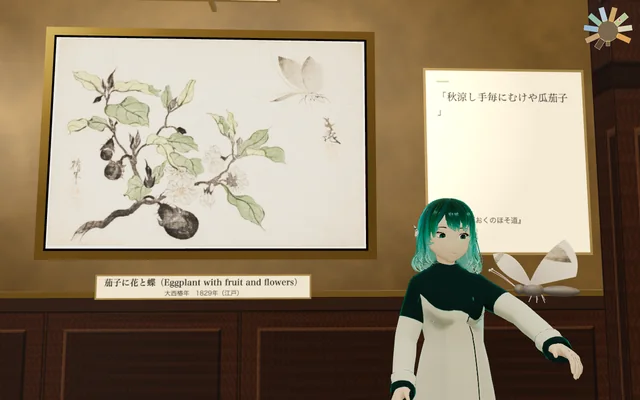
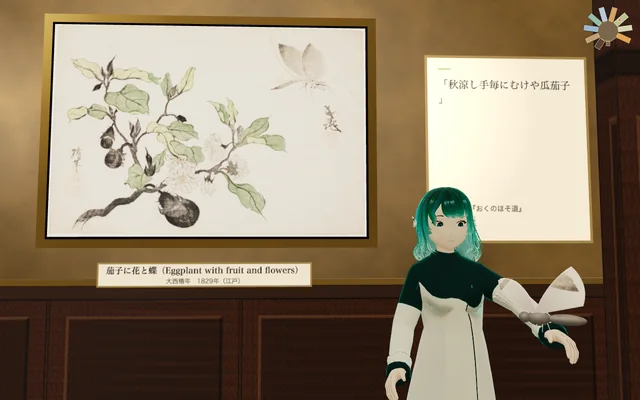
森羅博物館の写真：碧の手にとまる蝶

diff --git a/index.html b/index.html
@@ -1144,7 +1144,7 @@ html[lang="en"] .qr>p.qr-core{font-family:var(--latin);font-style:italic;letter-
            2026-10-07 本人「森羅百景を HP から削除して、代わりに森羅博物館を追加」（森羅百景のアプリ自体は公開のまま・HP からのリンクだけ外した）。
            碧の唄の MV は未公開。公開したら、この順の位置に入れる。 -->
       <li><a href="https://mitsulab-soil.github.io/aoi-walk-hikawa/" target="_blank" rel="noopener"><img src="img/apps/vid/walk_poster.webp" width="640" height="400" loading="lazy" decoding="async" alt="氷川道中：参道を先に歩く碧" data-i18n-alt="Hikawa Dochu: Aoi walking ahead on the approach"><span class="sn" data-i18n-en="Hikawa Dochu">氷川道中</span><span class="sd" data-i18n-en="Walk the Hikawa approach in Ōmiya with Aoi&#39;s voice. Choose a layer to listen to — living things, trees, soil and water, layers of time — and Aoi speaks at keyaki and stones; in places the scene slips back to the old cedar avenue. At home, walk it in 3D.">大宮の氷川参道を、碧の声と歩きます。生きもの・樹木・土と水・時のかさなりなど、聞きたい層を選ぶと、欅や石の前で碧が話し、景色が杉並木のころへさかのぼる所も。家では 3D の参道を歩けます。</span><span class="slg" data-i18n-en="Japanese only">日本語のみ</span><span class="arr">↗</span></a></li>
-      <li><a href="https://mitsulab-soil.github.io/museum/" target="_blank" rel="noopener"><img src="img/apps/vid/museum_poster.webp" width="640" height="400" loading="lazy" decoding="async" alt="森羅博物館：やさいの部屋の「茄子に花と蝶」の前で、こちらを向いて話す碧と、絵から抜け出て碧の手もとへ来た蝶" data-i18n-alt="Shinra Museum: in the vegetable room, Aoi faces us in front of “Eggplant with fruit and flowers”, as a butterfly that has left the picture comes to her hand"><span class="sn" data-i18n-en="Shinra Museum">森羅博物館</span><span class="sd" data-i18n-en="Walk a 3D museum room to room with Aoi. Light and sound change with each room — soil, rain, wind, snow, the Moon and more — and Aoi tells you about the pictures in her own voice. Creatures slip out of their frames, and books open in spreads. The hall alone takes about 2 minutes; one room, about 10.">3D の館を、碧と部屋から部屋へ歩きます。土・雨・風・雪・月などの部屋ごとに光と音が変わり、絵の前では碧が声で語ります。額から抜け出して動く生きものや、見開きで読める本もあります。広間だけなら 2 分、一部屋なら 10 分ほど。</span><span class="slg" data-i18n-en="Japanese only">日本語のみ</span><span class="arr">↗</span></a></li>
+      <li><a href="https://mitsulab-soil.github.io/museum/" target="_blank" rel="noopener"><img src="img/apps/vid/museum_poster.webp" width="640" height="400" loading="lazy" decoding="async" alt="森羅博物館：やさいの部屋の「茄子に花と蝶」の前で、こちらを向いて話す碧と、絵から抜け出て碧の手にとまった蝶" data-i18n-alt="Shinra Museum: in the vegetable room, Aoi faces us in front of “Eggplant with fruit and flowers”, with a butterfly that has left the picture perched on her hand"><span class="sn" data-i18n-en="Shinra Museum">森羅博物館</span><span class="sd" data-i18n-en="Walk a 3D museum room to room with Aoi. Light and sound change with each room — soil, rain, wind, snow, the Moon and more — and Aoi tells you about the pictures in her own voice. Creatures slip out of their frames, and books open in spreads. The hall alone takes about 2 minutes; one room, about 10.">3D の館を、碧と部屋から部屋へ歩きます。土・雨・風・雪・月などの部屋ごとに光と音が変わり、絵の前では碧が声で語ります。額から抜け出して動く生きものや、見開きで読める本もあります。広間だけなら 2 分、一部屋なら 10 分ほど。</span><span class="slg" data-i18n-en="Japanese only">日本語のみ</span><span class="arr">↗</span></a></li>
       <li><a href="https://mitsulab-soil.github.io/aoi-shizen-rakugo/" target="_blank" rel="noopener"><img src="img/apps/vid/rakugo_poster.webp" width="640" height="400" loading="lazy" decoding="async" alt="森羅寄席（碧の自然落語）の画面" data-i18n-alt="Shinra Yose: Aoi's nature rakugo"><span class="sn" data-i18n-en="Shinra Yose">森羅寄席</span><span class="sd" data-i18n-en="Five nature-rakugo tales of about five minutes each, with Aoi playing every role. Bats&#39; ultrasound, the ultraviolet bees see, a migrant&#39;s magnetic compass, starlight&#39;s long journey — carried from a sourced opening talk into an Edo tale. For families, in Japanese and English.">碧がひとりで全部の役を演じる、一席 5 分ほどの自然落語が 5 作。蝙蝠の超音波、蜂に見える紫外線、渡り鳥の磁石、星の光の長い旅を、典拠つきのまくらから江戸の噺へ運びます。親子で、日本語と英語で。</span><span class="slg" data-i18n-en="JA / EN">日本語・英語</span><span class="arr">↗</span></a></li>
       <li><a href="https://mitsulab-soil.github.io/aoi-blueprint/" target="_blank" rel="noopener"><img src="img/apps/vid/mikata_world_poster.webp" width="640" height="400" loading="lazy" decoding="async" alt="世界のミカタの画面：欅の下の地形の断面に、根と菌糸のつながり・ミミズの通り道・湧き水の池" data-i18n-alt="The World’s Ways: a cross-section of the land under a zelkova, with roots and fungal threads, earthworm burrows and a spring-fed pond"><span class="sn" data-i18n-en="The World’s Ways">世界のミカタ</span><span class="sd" data-i18n-en="A small piece of land under a zelkova, in 3D. See, one by one, what people cannot perceive — ultraviolet, infrared, ultrasound, groundwater, the flow of air, roots and fungal threads — and follow how a tiny part of what arrives becomes meaning. Try the blind spot and more yourself.">欅の下の小さな地形を 3D で。紫外線・赤外線・超音波・地下水・大気の流れ・根と菌糸のつながりなど、人には見えない世界を順に見せ、届いたもののほんの一部が意味になるまでを追います。盲点などを自分で試せます。</span><span class="slg" data-i18n-en="Japanese only">日本語のみ</span><span class="arr">↗</span></a></li>
       <li><a href="https://mitsulab-soil.github.io/aoi-blueprint/aoi.html" target="_blank" rel="noopener"><img src="img/apps/vid/mikata_aoi_poster.webp" width="640" height="400" loading="lazy" decoding="async" alt="碧のミカタの画面：欅の下に立つ碧と、頭・目・耳・胸・手・足もとのしるし" data-i18n-alt="Aoi’s Ways: Aoi standing under a zelkova, with markers on her head, eyes, ears, chest, hands and feet"><span class="sn" data-i18n-en="Aoi’s Ways">碧のミカタ</span><span class="sd" data-i18n-en="A companion piece under the same zelkova: what Aoi takes in and how she hands it on. Her ears bring bat calls down to a pitch we can hear, her eyes turn ultraviolet into colour, her feet read the land and her hands the soil — with the technology behind each, and what cannot yet be carried across.">同じ欅の下で、碧が何を受けとり、どう手渡すかを見る姉妹作。耳はコウモリの声を聞こえる高さへ、目は紫外線を色に置きかえ、足もとは地形を、手は土の中を読みます。それぞれの技術と、まだ移せないものも。</span><span class="slg" data-i18n-en="Japanese only">日本語のみ</span><span class="arr">↗</span></a></li>
@@ -1407,7 +1407,7 @@ html[lang="en"] .qr>p.qr-core{font-family:var(--latin);font-style:italic;letter-
     </div>
   </article>
   <article class="app rev" id="app-museum">
-    <figure class="app-fig"><img src="img/apps/vid/museum_poster.webp" width="640" height="400" loading="lazy" alt="森羅博物館：やさいの部屋の「茄子に花と蝶」の前で、こちらを向いて話す碧と、絵から抜け出て碧の手もとへ来た蝶" data-i18n-alt="Shinra Museum: in the vegetable room, Aoi faces us in front of “Eggplant with fruit and flowers”, as a butterfly that has left the picture comes to her hand"></figure>
+    <figure class="app-fig"><img src="img/apps/vid/museum_poster.webp" width="640" height="400" loading="lazy" alt="森羅博物館：やさいの部屋の「茄子に花と蝶」の前で、こちらを向いて話す碧と、絵から抜け出て碧の手にとまった蝶" data-i18n-alt="Shinra Museum: in the vegetable room, Aoi faces us in front of “Eggplant with fruit and flowers”, with a butterfly that has left the picture perched on her hand"></figure>
     <div class="app-body">
       <span class="app-no">02</span><h3 class="app-name" data-i18n-en="Shinra Museum">森羅博物館</h3><span class="app-lang" data-i18n-en="Japanese only">日本語のみ</span>
       <p class="app-one" data-i18n-en="Step into the rain room, and you hear the rain. A 3D museum to walk through with Aoi.">雨の部屋に入ると、雨の音がする。碧と巡る、3D の博物館。</p>
